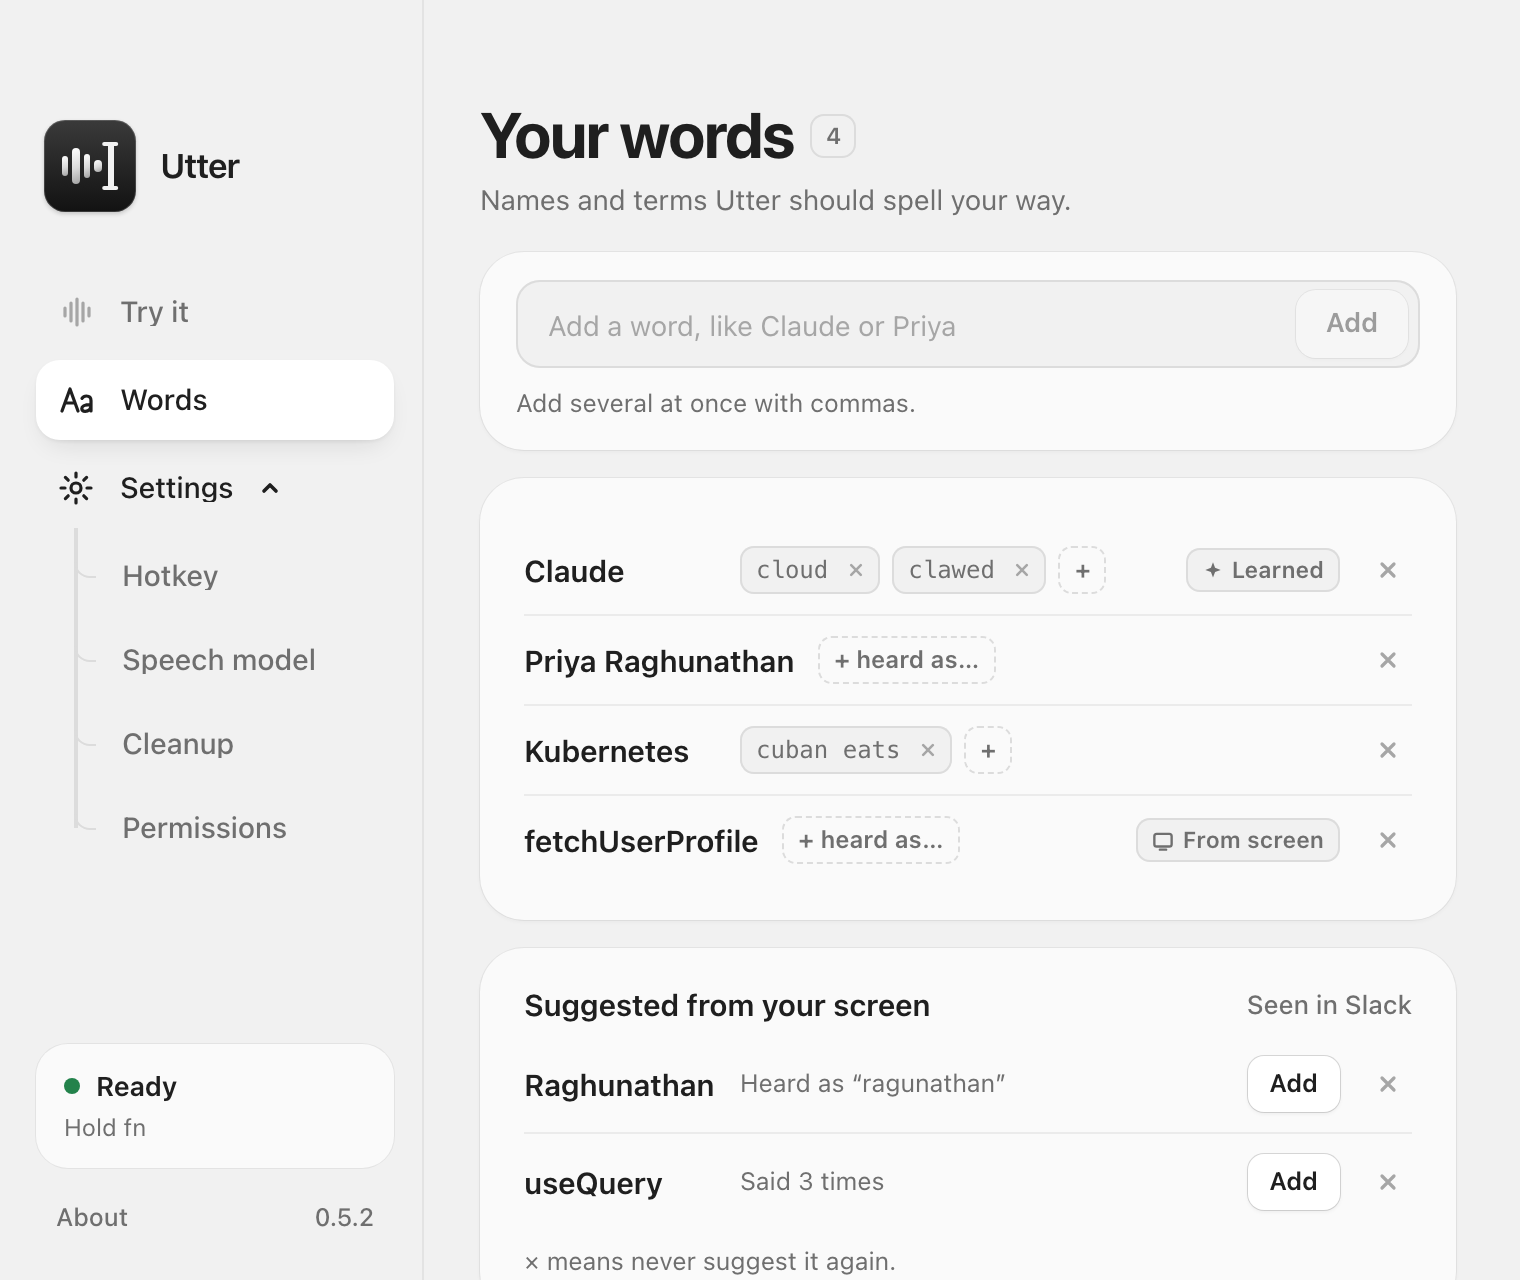
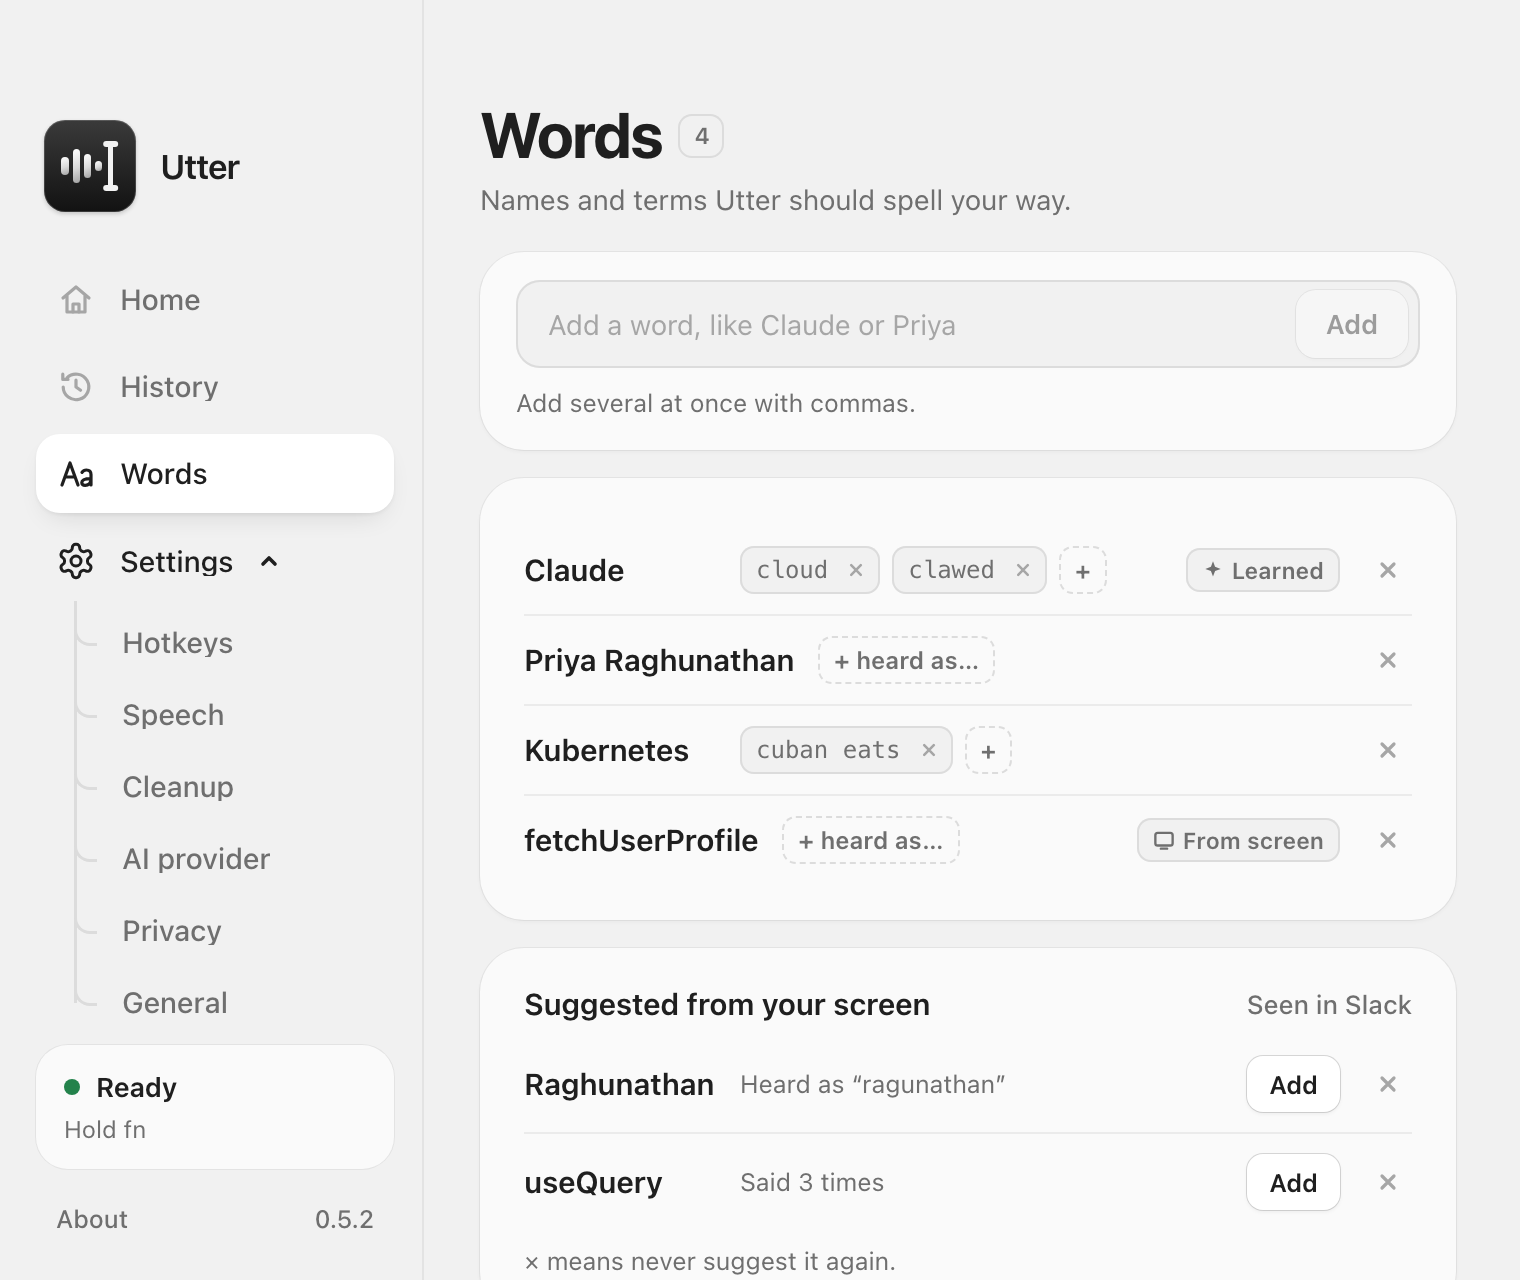
Screenshots of the new sidebar in the README and on the site
Home, Words, Hotkeys and AI provider replace Try it, Your words, Hotkey
and Cleanup: light PNGs at 2x for the README, light and dark WebP for the
site's Inside the app gallery, taken from the preview mock
(?fn&key&ax=on&words) at 760 by 640. Captions and alt text use the new
page names.

diff --git a/site/index.html b/site/index.html
@@ -683,31 +683,31 @@
           <div class="shots">
             <figure class="card shot rv">
               <picture>
-                <source srcset="/gallery/try-dark.webp" media="(prefers-color-scheme: dark)" />
-                <img src="/gallery/try-light.webp" width="1200" height="1010" loading="lazy" decoding="async" alt="Utter's Try it screen" />
+                <source srcset="/gallery/home-dark.webp" media="(prefers-color-scheme: dark)" />
+                <img src="/gallery/home-light.webp" width="1200" height="1010" loading="lazy" decoding="async" alt="Utter's Home screen" />
               </picture>
-              <figcaption><b>Try it</b> <span>Practise, then see what changed and how long it took.</span></figcaption>
+              <figcaption><b>Home</b> <span>Practise, then see what changed and how long it took.</span></figcaption>
             </figure>
             <figure class="card shot rv d1">
               <picture>
                 <source srcset="/gallery/words-dark.webp" media="(prefers-color-scheme: dark)" />
-                <img src="/gallery/words-light.webp" width="1200" height="1010" loading="lazy" decoding="async" alt="Utter's Your words screen" />
+                <img src="/gallery/words-light.webp" width="1200" height="1010" loading="lazy" decoding="async" alt="Utter's Words screen" />
               </picture>
-              <figcaption><b>Your words</b> <span>Names spelled your way, with what Utter hears instead.</span></figcaption>
+              <figcaption><b>Words</b> <span>Names spelled your way, with what Utter hears instead.</span></figcaption>
             </figure>
             <figure class="card shot rv">
               <picture>
-                <source srcset="/gallery/hotkey-dark.webp" media="(prefers-color-scheme: dark)" />
-                <img src="/gallery/hotkey-light.webp" width="1200" height="1010" loading="lazy" decoding="async" alt="Utter's Hotkey screen" />
+                <source srcset="/gallery/hotkeys-dark.webp" media="(prefers-color-scheme: dark)" />
+                <img src="/gallery/hotkeys-light.webp" width="1200" height="1010" loading="lazy" decoding="async" alt="Utter's Hotkeys screen" />
               </picture>
-              <figcaption><b>Hotkey</b> <span>Any key combination, or the fn key on its own.</span></figcaption>
+              <figcaption><b>Hotkeys</b> <span>Any key combination, or the fn key on its own.</span></figcaption>
             </figure>
             <figure class="card shot rv d1">
               <picture>
-                <source srcset="/gallery/cleanup-dark.webp" media="(prefers-color-scheme: dark)" />
-                <img src="/gallery/cleanup-light.webp" width="1200" height="1010" loading="lazy" decoding="async" alt="Utter's Cleanup screen" />
+                <source srcset="/gallery/provider-dark.webp" media="(prefers-color-scheme: dark)" />
+                <img src="/gallery/provider-light.webp" width="1200" height="1010" loading="lazy" decoding="async" alt="Utter's AI provider screen" />
               </picture>
-              <figcaption><b>Cleanup</b> <span>Pick a provider, or run a model on your Mac.</span></figcaption>
+              <figcaption><b>AI provider</b> <span>Pick a provider, or run a model on your Mac.</span></figcaption>
             </figure>
           </div>
         </div>

diff --git a/README.md b/README.md
@@ -34,12 +34,12 @@ Why another dictation app:
   OpenRouter or a local model through Ollama, with your own key. Or skip it.
 
 <p align="center">
-  <img src="docs/images/try-it.png" alt="Try it: the practice box, the last dictation with its changes marked, and how long it took" width="400" />
-  <img src="docs/images/words.png" alt="Your words: names with what Utter hears instead, and suggestions from the screen" width="400" />
+  <img src="docs/images/home.png" alt="Home: the practice box and the last dictation with its changes marked" width="400" />
+  <img src="docs/images/words.png" alt="Words: names with what Utter hears instead, and suggestions from the screen" width="400" />
 </p>
 <p align="center">
-  <img src="docs/images/hotkey.png" alt="Hotkey, with the fn key chosen" width="400" />
-  <img src="docs/images/cleanup.png" alt="Cleanup, with the providers to choose from" width="400" />
+  <img src="docs/images/hotkeys.png" alt="Hotkeys, with the fn key chosen for dictating and a second key for rewriting" width="400" />
+  <img src="docs/images/provider.png" alt="AI provider, with the providers to choose from" width="400" />
 </p>
 <p align="center">
   <img src="docs/images/pill-listening.png" alt="The status pill while listening" width="260" />
